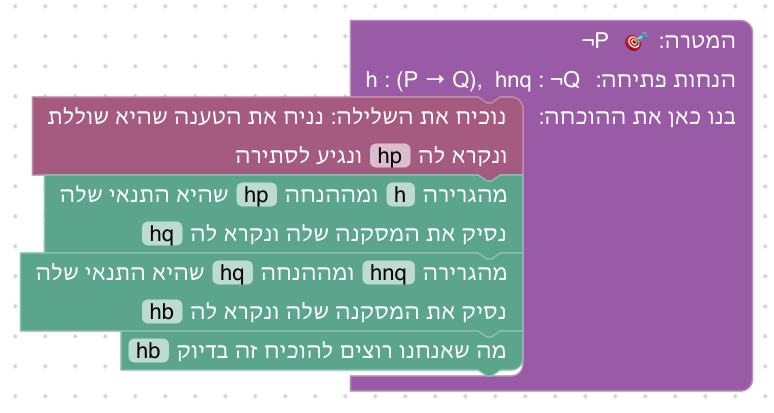
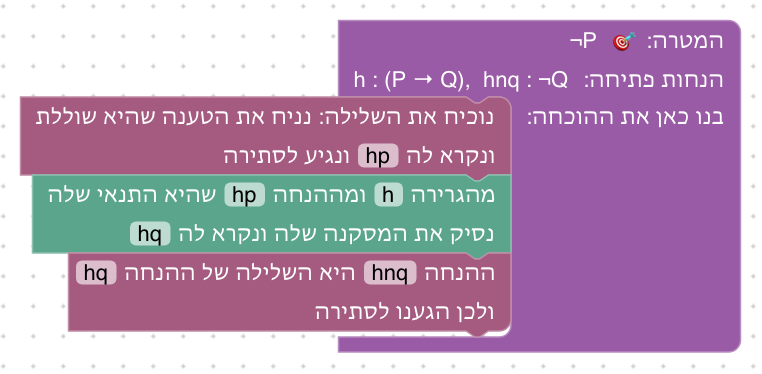
Unit 3 level 5: the direct forward path to a contradiction
Modus tollens is most directly proved as in writing: from P → Q and P we get
Q, and ¬Q contradicts it. The level now offers "הגענו לסתירה" for that last
step, its text and a hint describe the path, and it replaces the documented
forward solution that applied ¬Q to Q as an implication. The backward
solution keeps using the level's new block, which levels 3.6, 3.9 and 3.10
require anyway.

diff --git a/frontend/src/game/unit3World.js b/frontend/src/game/unit3World.js
@@ -197,13 +197,15 @@ export const unit3Levels = [
             { name: 'h', prop: 'P → Q' },
             { name: 'hnq', prop: '¬Q' },
         ],
-        toolboxBlocks: ['logic_not_intro', 'logic_not_elim', 'tactic_apply_rule', 'logic_modus_ponens', 'tactic_exact'],
+        toolboxBlocks: ['logic_not_intro', 'logic_not_elim', 'tactic_apply_rule', 'logic_modus_ponens', 'logic_contradiction', 'tactic_exact'],
         introduction: `# משתמשים בשלילה
 
 אם P גוררת את Q, ו־Q לא נכונה, אז גם P לא נכונה. נוכיח את זה.
 
 המטרה היא \`¬P\`, ולכן נניח את P וננסה להגיע לסתירה. אבל אין בידינו P וגם ¬P, אלא ¬Q.
-כשהמטרה היא סתירה ויש בידינו שלילה \`¬Q\`, מספיק להוכיח את Q: יחד עם ¬Q זו סתירה.`,
+כשהמטרה היא סתירה ויש בידינו שלילה \`¬Q\`, מספיק להוכיח את Q: יחד עם ¬Q זו סתירה.
+
+אפשר גם ללכת קדימה: מ־h ומ־P מסיקים את Q, ואז Q ו־¬Q הן טענה ושלילתה, כמו בשלב 1.`,
         newTacticsBlocks: ['logic_not_elim'],
         newTacticsInfo: [notElimInfo],
         newDefinitions: [],
@@ -211,9 +213,10 @@ export const unit3Levels = [
             'הניחו את P (בבלוק הוכחת השלילה) וקראו לה hp.',
             'השתמשו בבלוק "נגיע לסתירה בעזרת השלילה ?" עם hnq. המטרה תהיה Q.',
             'המסקנה של h היא Q: עברו להוכיח את התנאי שלה, P, וסגרו בעזרת hp.',
+            'או קדימה: מ־h ומ־hp הסיקו את Q (למשל hq), ואז hnq היא השלילה של hq: הגעתם לסתירה.',
         ],
-        conclusion: `מ־P → Q ומ־¬Q הסקתם ¬P. כדי להגיע לסתירה השתמשתם בשלילה ¬Q: הוכחתם את מה שהיא שוללת.
-אפשר גם להסיק קדימה: מ־h ומ־hp נובע Q, וההנחה hnq היא השלילה שלה.`,
+        conclusion: `מ־P → Q ומ־¬Q הסקתם ¬P (modus tollens). אחורה, השתמשתם בשלילה ¬Q: הוכחתם את מה שהיא שוללת.
+קדימה, הסקתם את Q, והיא ו־¬Q סותרות. בשלבים הבאים יופיעו שלילות של טענות שאין דרך להגיע אליהן קדימה, ושם השימוש בשלילה הכרחי.`,
         startXml: goalXml('¬P', 'h : (P → Q),  hnq : ¬Q'),
     },
     {

diff --git a/frontend/e2e/solutions.js b/frontend/e2e/solutions.js
@@ -122,7 +122,7 @@ export const UNITS = [
             ],
             [
                 { label: 'אחורה', note: 'מגיעים לסתירה בעזרת ¬Q: מוכיחים את Q.', steps: [notIntro('hp'), notElim('hnq'), applyRule('h'), exact('hp')] },
-                { label: 'קדימה', note: 'מ־h ו־hp נובע Q, ומ־hnq ו־Q נובעת סתירה.', steps: [notIntro('hp'), forward('h', 'hp', 'hq'), forward('hnq', 'hq', 'hb'), exact('hb')] },
+                { label: 'קדימה', note: 'מ־h ו־hp נובע Q, ו־hnq היא השלילה שלה: סתירה.', steps: [notIntro('hp'), forward('h', 'hp', 'hq'), contradiction('hnq', 'hq')] },
             ],
             [{
                 label: 'פתרון',

diff --git a/docs/curriculum/03-negation.md b/docs/curriculum/03-negation.md
@@ -112,7 +112,7 @@
 
 ### שלב 3.5: משתמשים בשלילה
 
-`h : P → Q, hnq : ¬Q ⊢ ¬P` · בארגז: הוכחת שלילה, שימוש בשלילה, מעבר לתנאי, הסקה קדימה, זה בדיוק
+`h : P → Q, hnq : ¬Q ⊢ ¬P` · בארגז: הוכחת שלילה, שימוש בשלילה, מעבר לתנאי, הסקה קדימה, סתירה, זה בדיוק
 
 **מה לומדים.** להשתמש בשלילה: כשהמטרה היא סתירה ויש בידינו ¬Q, מספיק להוכיח את Q. בלוגיקה זה modus tollens.
 
@@ -122,12 +122,12 @@
 
 ![שלב 3.5, אחורה](images/unit3-level5-a.png)
 
-**פתרון ב: קדימה.** מ־h ו־hp נובע Q, ומ־hnq ו־Q נובעת סתירה.
+**פתרון ב: קדימה.** מ־h ו־hp נובע Q, ו־hnq היא השלילה שלה: סתירה. זו הדרך הישירה ביותר, וכך גם מוכיחים modus tollens בכתב: "מ־P נובע Q, אבל נתון ¬Q, סתירה".
 
 ![שלב 3.5, קדימה](images/unit3-level5-b.png)
 
 **שיקולים ושאלות להכרעה.**
-- בפתרון קדימה הבלוק "שימוש בשלילה" כלל לא נחוץ. האם זה בסדר, או ששלב שמציג בלוק חדש צריך לחייב את השימוש בו?
+- בפתרון קדימה הבלוק החדש, "שימוש בשלילה", כלל לא נחוץ. הוחלט שזה בסדר: הוא נשאר הפתרון אחורה, ובשלבים 3.6, 3.9 ו־3.10 הוא הכרחי, כי שם השלילה היא של טענה שאין דרך להגיע אליה קדימה (למשל ¬(P ∨ Q)), כך שהסטודנטים יתרגלו אותו ממילא. האם זה מספיק, או שצריך בשלב 3.5 עצמו לחייב את השימוש בו?
 
 ### שלב 3.6: שלילה של "או"
 
